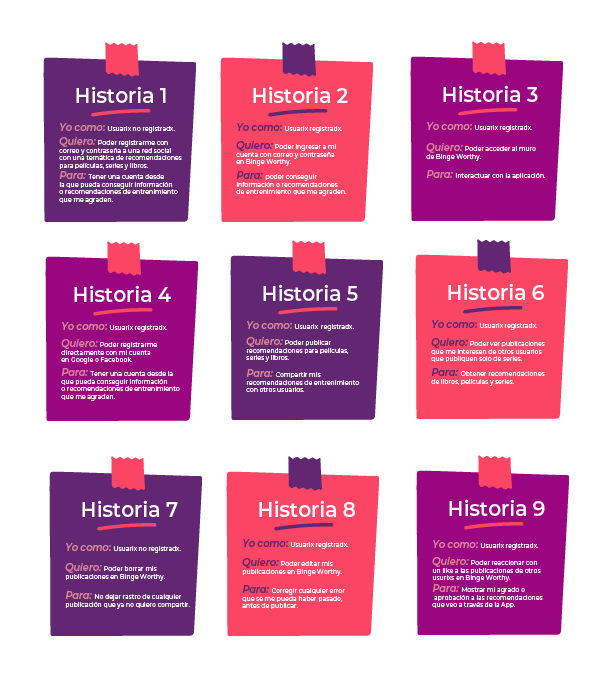
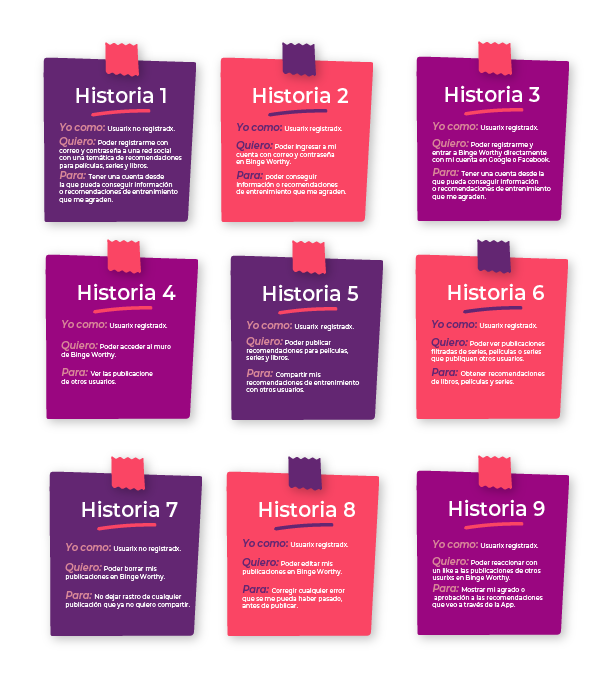
Readme 100%

diff --git a/README.md b/README.md
@@ -1,12 +1,197 @@
-# Creando una Red Social
+# Creando una Red Social : 📲 Binge Worthy
 
+## Introducción
+**Binge Worthy** significa digno de atracones, una red social dónde su comunidad puede encontrar y ofrecer las mejores recomendaciones de series, libros y películas.
 
+## Descripción del proyecto
+#### ¿Quiénes son los principales usuarios del producto?
 
+"El entretenimiento ha estado presente en la vida de los seres humanos desde tiempos inmemoriales. Incluso los animales buscan la manera de entretenerse en su hábitat y crean rituales con el mismo fin". Cuando se habla de entretenimiento, se habla de mucho más que de pasar el rato con fines recreativos, y las historias en todos los formatos ofrecen uno de las mejores opciones de entretenimiento para las personas.
 
-![Imagen text](https://github.com/elianamendez1/LIM017-social-network/blob/b41655ec9309d642b923d6f80ee616abcaaf0651/src/images/images%20for%20readme/Prototipo%20de%20alta%20fidelidad-11.png)
+#### ¿Qué problema resuelve el producto?
+¿Estás buscando comedias con las que reírte un rato? ¿Clásicos imprescindibles que hay que ver al menos una vez en la vida? ¿Una película de acción que te dé un subidón de adrenalina? ¿O quizás alguno de esos dramas lacrimógenos para llorar a moco tendido? Tras más de un siglo de existencia del séptimo arte, las opciones son muchísimas. Y difícilmente encontrar algo sin durar horas buscando entre artículos de recomendaciones y perdiendo el tiempo disponible para el entretenimiento. Por ello, Binge Worthy viene a solucionarlo ofreciendo filtros que te ayudarán en la búsqueda de recomendaciones para hacer match, con tu historia favorita, en cualquiera de los formatos como series, libros y películas. Desde las manos de otros cinéfilos aficionados como tú.
 
+### Proceso creativo de diseño
 
+#### Prototipo de alta fidelidad para escritorio
 
+![Imagen text](https://github.com/elianamendez1/LIM017-social-network/blob/2ba007c89770909dfe83559f1199a99de750a2f7/src/images/images%20for%20readme/hifi%20prototype%20-%20Desktop.png)
+
+![Imagen text](https://github.com/elianamendez1/LIM017-social-network/blob/2ba007c89770909dfe83559f1199a99de750a2f7/src/images/images%20for%20readme/hifi%20prototype%20feed%20-%20Desktop.png)
+
+#### Prototipo de alta fidelidad para Móvil
+
+![Imagen text](https://github.com/elianamendez1/LIM017-social-network/blob/2ba007c89770909dfe83559f1199a99de750a2f7/src/images/images%20for%20readme/hifi%20prototype%20-%20Mobile.png)
+
+![Imagen text](https://github.com/elianamendez1/LIM017-social-network/blob/2ba007c89770909dfe83559f1199a99de750a2f7/src/images/images%20for%20readme/hifi%20prototype%20feed%20-%20Mobile.png)
+
+#### Historias de usuario
+
+![Imagen text](https://github.com/elianamendez1/LIM017-social-network/blob/2ba007c89770909dfe83559f1199a99de750a2f7/src/images/images%20for%20readme/User%20stories.png)
+
+#### Historia Usuario 1⃣
+
+*Criterios de aceptación*
+
+✔ Botón en la página de bienvenida para ir al registro.
+✔ Campo de input para correo electrónico.
+✔ Campo de input para contraseña.
+✔Mostrar y ocultar contraseña.
+✔ Botón de crear cuenta.
+✔ Si coinciden, redirige a una página de confirmar correo electrónico.
+
+*Definición de terminado*
+
+✔Versión 1 de la App Binge Worthy completada en la rama Main **"tree clean"**.
+✔ Debe ser una SPA.
+✔ Debe ser responsive.
+✔ Deben haber recibido code review de al menos una compañera de otro equipo.
+✔ Pasaron los test unitarios.
+✔ Test manual buscando errores e imperfecciones simples.
+✔ Etiqueta de versión (git tag).
+
+#### Historia Usuario 2⃣
+
+*Criterios de aceptación*
+
+✔ Contraseña ocultable.
+✔ Floating label para campos de email y contraseña.
+✔ Botón de olvidé mi contraseña "i forgot my password".
+✔ Botón de login que redirige lleva al muro.
+
+*Definición de terminado*
+
+✔Versión 1 de la App Binge Worthy completada en la rama Main **"tree clean"**.
+✔ Debe ser una SPA.
+✔ Debe ser responsive.
+✔ Deben haber recibido code review de al menos una compañera de otro equipo.
+✔ Pasaron los test unitarios.
+✔ Test manual buscando errores e imperfecciones simples.
+
+#### Historia Usuario 3⃣
+
+*Criterios de aceptación*
+
+✔ Botón para el registro con el logo de Google con redirección al Feed.
+✔ Botón para el registro con el logo de Facebook con redirección al Feed.
+
+*Definición de terminado*
+
+✔ Versión 1 de la App Binge Worthy completada en la rama Main **"tree clean"**.
+✔ Debe ser una SPA.
+✔ Debe ser responsive.
+✔ Deben haber recibido code review de al menos una compañera de otro equipo.
+✔ Pasaron los test unitarios.
+✔ Test manual buscando errores e imperfecciones simples.
+
+#### Historia Usuario 4⃣
+
+*Criterios de aceptación*
+
+✔ Barra de navegación.
+✔ Botones para los filtros.
+✔ Botón de crear publicación.
+
+*Definición de terminado*
+
+✔ Versión 1 de la App Binge Worthy completada en la rama Main **"tree clean"**.
+✔ Debe ser una SPA.
+✔ Debe ser responsive.
+✔ Deben haber recibido code review de al menos una compañera de otro equipo.
+✔ Pasaron los test unitarios.
+✔ Test manual buscando errores e imperfecciones simples.
+✔ Etiqueta de versión (git tag).
+
+#### Historia Usuario 5⃣
+
+*Criterios de aceptación*
+
+✔ Modal para crear publicación.
+✔ Campo de input para ingresar título de publicación.
+✔ Tener una Text content donde el usuario pueda ingresar su publicación.
+✔ Campo de select para que el usuario agregue categoría de publicación.
+✔ Botón de publicar.
+✔ Al realizar la publicación asignarle una fecha y hora exacta para su organización en el feed.
+
+*Definición de terminado*
+
+✔ Versión 1 de la App Binge Worthy completada en la rama Main **"tree clean"**.
+✔ Debe ser una SPA.
+✔ Debe ser responsive.
+✔ Deben haber recibido code review de al menos una compañera de otro equipo.
+✔ Pasaron los test unitarios.
+✔ Test manual buscando errores e imperfecciones simples.
+✔ Etiqueta de versión (git tag).
+
+#### Historia Usuario 6⃣
+
+*Criterios de aceptación*
+
+✔ Publicaciones ordenadas de acuerdo a la fecha automáticamente.
+✔ Publicaciones más recientes aparecen primero.
+
+*Definición de terminado*
+
+✔ Versión 1 de la App Binge Worthy completada en la rama Main **"tree clean"**.
+✔ Debe ser una SPA.
+✔ Debe ser responsive.
+✔ Deben haber recibido code review de al menos una compañera de otro equipo.
+✔ Pasaron los test unitarios.
+✔ Test manual buscando errores e imperfecciones simples.
+✔ Etiqueta de versión (git tag).
+
+#### Historia Usuario 7⃣
+
+*Criterios de aceptación*
+
+✔ Boton con ícono para eliminar.
+✔ Ventana modal de ¿estás seguro de eliminar?
+✔ Botón de aceptar eliminar.
+✔ Botón de cancelar eliminar.
+✔ Eliminar de la base de datos la publicación.
+
+*Definición de terminado*
+
+✔ Versión 1 de la App Binge Worthy completada en la rama Main **"tree clean"**.
+✔ Debe ser una SPA.
+✔ Debe ser responsive.
+✔ Deben haber recibido code review de al menos una compañera de otro equipo.
+✔ Pasaron los test unitarios.
+✔ Test manual buscando errores e imperfecciones simples.
+
+#### Historia Usuario 8⃣
+
+*Criterios de aceptación*
+
+✔ Boton con ícono para editar
+✔ Botón de editar - redirecciona al modal para editar - (misma de publicar solo que con los datos de la publicación a modificar).
+✔ Verificación de que la publicación no se duplique sino que se modifique.
+
+*Definición de terminado*
+
+✔ Versión 1 de la App Binge Worthy completada en la rama Main **"tree clean"**.
+✔ Debe ser una SPA.
+✔ Debe ser responsive.
+✔ Deben haber recibido code review de al menos una compañera de otro equipo.
+✔ Pasaron los test unitarios.
+✔ Test manual buscando errores e imperfecciones simples.
+
+#### Historia Usuario 9⃣
+
+*Criterios de aceptación*
+
+✔ Boton con ícono de corazón para dar Like.
+✔ Ícono de like se colorea cuando se presiona y al quitar el like de descolorea.
+
+*Definición de terminado*
+
+✔ Versión 1 de la App Binge Worthy completada en la rama Main **"tree clean"**.
+✔ Debe ser una SPA.
+✔ Debe ser responsive.
+✔ Deben haber recibido code review de al menos una compañera de otro equipo.
+✔ Pasaron los test unitarios.
+✔ Test manual buscando errores e imperfecciones simples.
+✔ Etiqueta de versión (git tag).
 
 ## Índice
 
